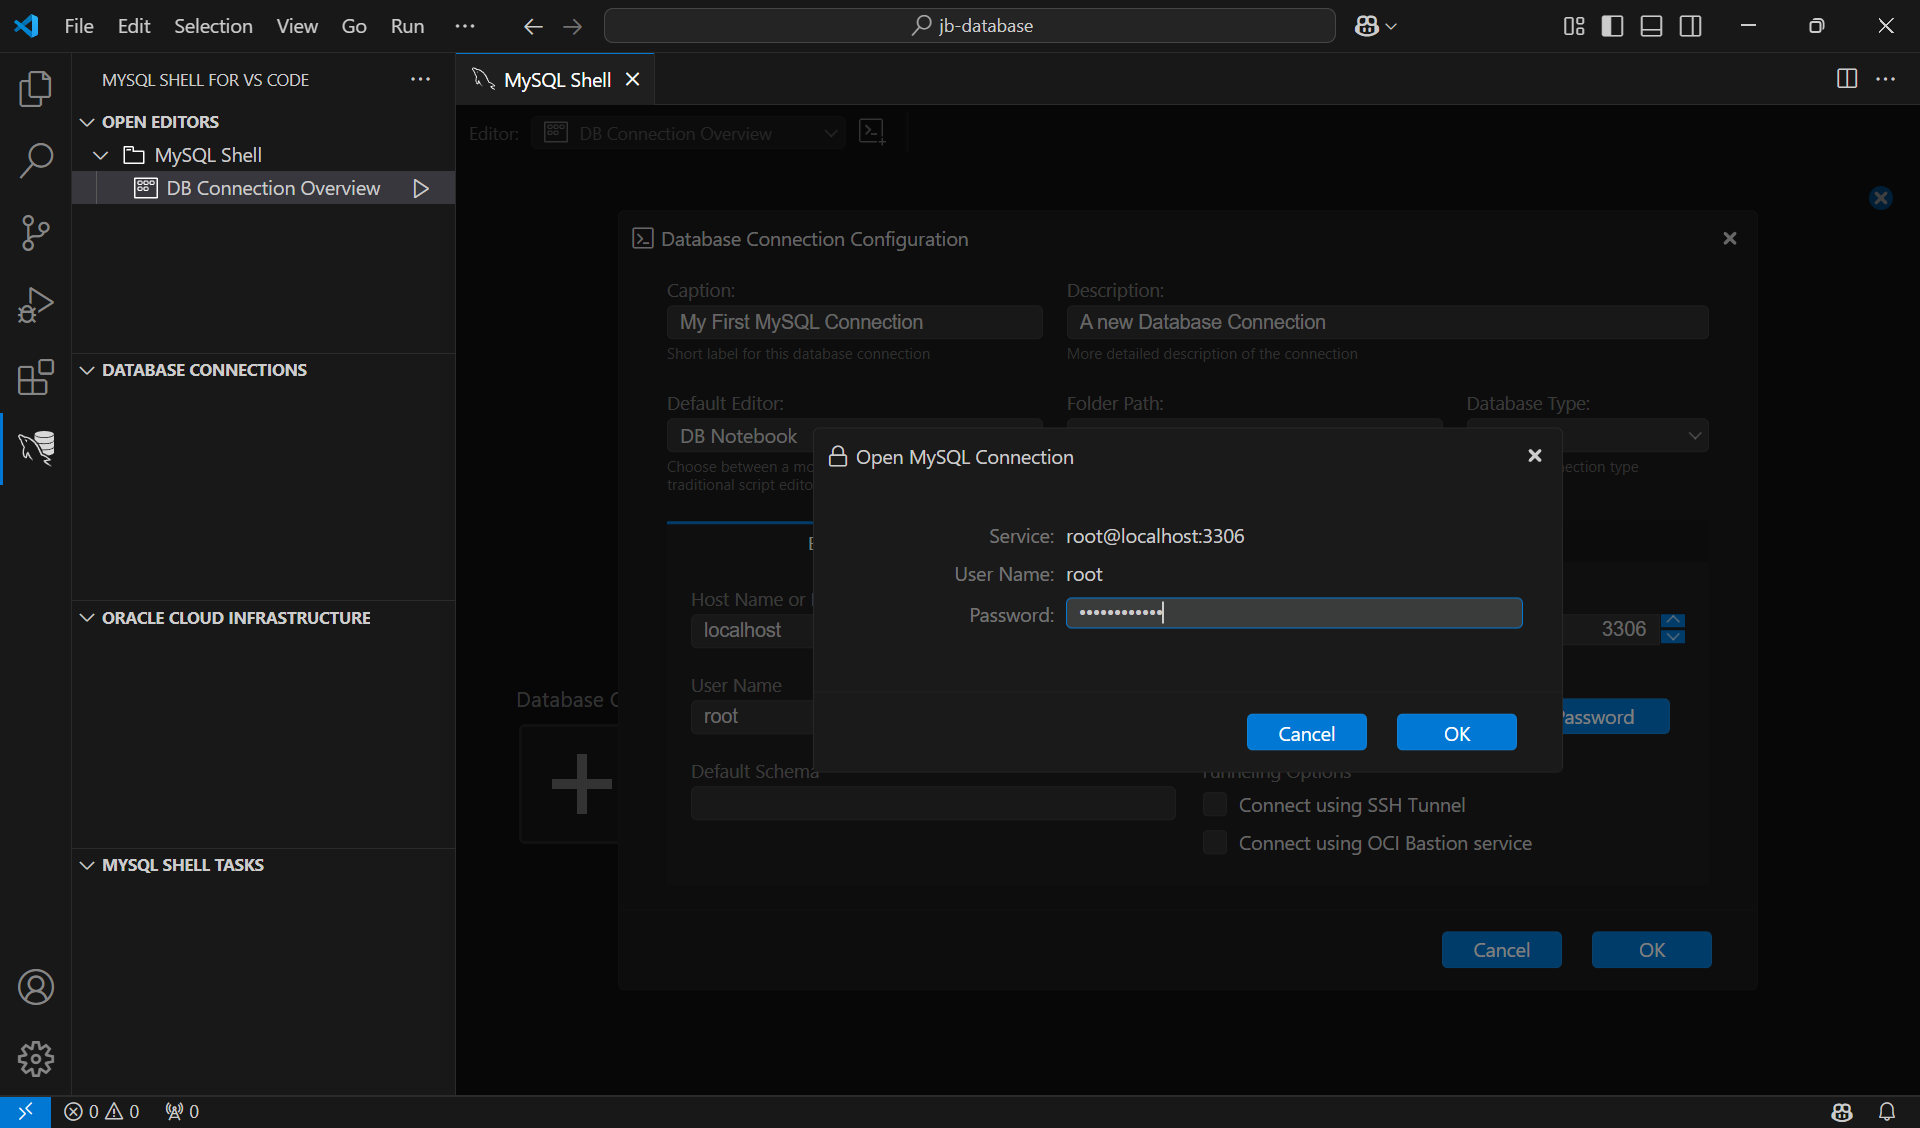
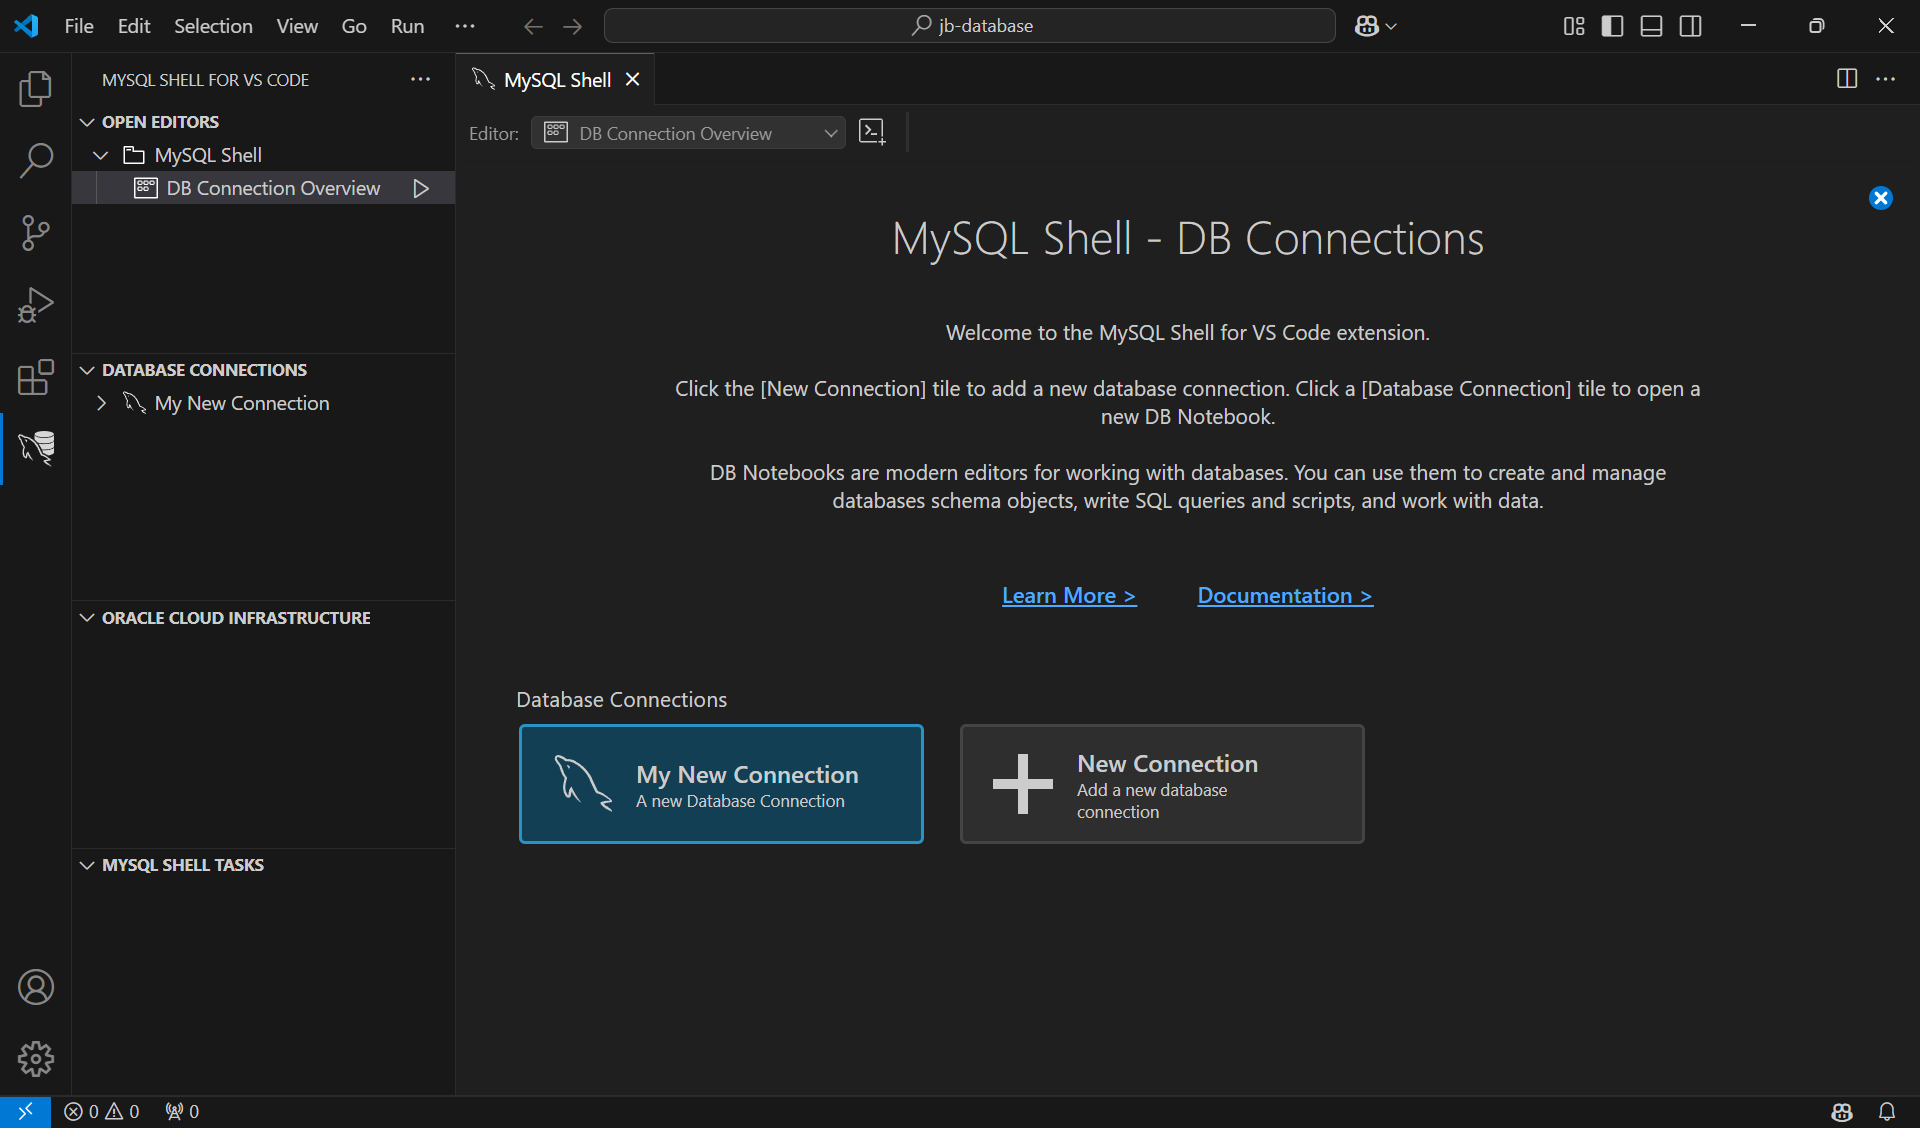
a

diff --git a/database/contents/SQL/mysql-install.md b/database/contents/SQL/mysql-install.md
@@ -109,12 +109,13 @@
 ## DB Connection
 
 1. **New Connection**をクリックします。
-2. **Caption**に「My First MySQL Connection」、**User Name**に「root」を入力します。
+2. **Caption**に「My New Connection」、**User Name**に「root」を入力します。
 ![vs-con-1](./images/mysql-install/vs-con-1.png)
 3. **Store Password**をクリックし、パスワードを入力します。
-![vs-con-2](./images/mysql-install/vs-con-2.png)
 4. **OK**をクリックします。
 5. **My First MySQL Connection**をクリックし、接続します。
+![vs-con-2](./images/mysql-install/vs-con-2.png)
+
 
 
 
